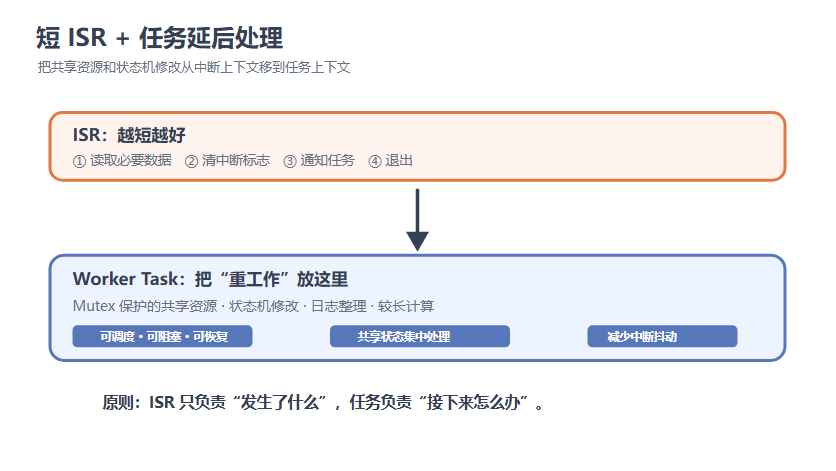
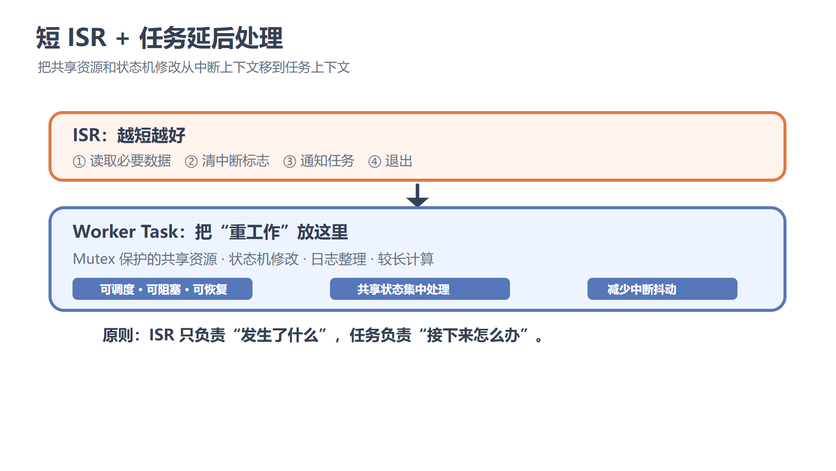
Clear FreeRTOS scene 4 and 5 subtitles in source diagrams

diff --git a/tests/video/test_freertos_scene45_subtitle_geometry.py b/tests/video/test_freertos_scene45_subtitle_geometry.py
@@ -1,0 +1,96 @@
+"""Keep complete FreeRTOS scene 4/5 diagrams above the real 16:9 subtitle band."""
+
+from __future__ import annotations
+
+import json
+import re
+import subprocess
+from pathlib import Path
+from urllib.parse import unquote
+from xml.etree import ElementTree
+
+from generate_video import _local_brief_subtitle_style
+from video_factory.pipeline.renderer import _subtitle_force_style
+
+from . import ROOT
+
+
+ASSETS = ROOT / "assets/freertos_mutex_plain_illustrations"
+CHROME = Path("C:/Program Files/Google/Chrome/Application/chrome.exe")
+WIDTH, HEIGHT = 1920, 1080
+SVG_WIDTH, SVG_HEIGHT = 1672, 941
+CLEARANCE_PX = 20
+
+
+def _subtitle_top() -> float:
+    style = _local_brief_subtitle_style(WIDTH, HEIGHT)
+    ass = _subtitle_force_style(style, canvas_width=WIDTH, canvas_height=HEIGHT)
+    values = dict(part.split("=", 1) for part in ass.split(","))
+    font_px = int(values["FontSize"]) * HEIGHT / 288
+    bottom_margin_px = int(values["MarginV"]) * HEIGHT / 288
+    return HEIGHT - bottom_margin_px - 1.5 * font_px
+
+
+def _chrome_boxes(svg_path: Path, ids: dict[str, str], tmp_path: Path) -> dict[str, dict[str, float]]:
+    assert CHROME.is_file(), "installed Chrome required for qualified SVG geometry"
+    source = svg_path.read_text(encoding="utf-8")
+    html = tmp_path / "bbox.html"
+    html.write_text(
+        "<!doctype html><meta charset='utf-8'><body style='margin:0'>" + source
+        + "<script>(async()=>{await document.fonts.ready;"
+        + "const ids=" + json.dumps(ids) + ";const out={};"
+        + "for(const [name,id] of Object.entries(ids)){"
+        + "const b=document.getElementById(id).getBBox();"
+        + "out[name]={x:b.x,y:b.y,width:b.width,height:b.height};}"
+        + "document.documentElement.setAttribute('data-bbox-json',encodeURIComponent(JSON.stringify(out)));"
+        + "})();</script></body>",
+        encoding="utf-8",
+    )
+    command = [
+        str(CHROME), "--headless=new", "--no-first-run", "--disable-background-networking",
+        "--disable-component-update", "--disable-sync", "--virtual-time-budget=3000",
+        f"--user-data-dir={tmp_path / 'chrome-profile'}", "--dump-dom", html.as_uri(),
+    ]
+    result = subprocess.run(
+        command, capture_output=True, text=True, encoding="utf-8", errors="replace",
+        check=False, timeout=20,
+    )
+    assert result.returncode == 0, result.stderr[-500:]
+    match = re.search(r'data-bbox-json="([^"]+)"', result.stdout)
+    assert match is not None, result.stdout[-500:]
+    return json.loads(unquote(match.group(1)))
+
+
+def _screen_bottom(box: dict[str, float]) -> float:
+    scale = min(WIDTH / SVG_WIDTH, HEIGHT / SVG_HEIGHT)
+    pad_y = (HEIGHT - SVG_HEIGHT * scale) / 2
+    return pad_y + (box["y"] + box["height"]) * scale
+
+
+def test_scene4_principle_clears_production_subtitle(tmp_path: Path) -> None:
+    svg_path = ASSETS / "04-short-isr-defer.svg"
+    svg = ElementTree.parse(svg_path).getroot()
+    principle = svg.find(".//*[@id='scene4-principle']")
+    assert principle is not None
+    assert "".join(principle.itertext()) == "原则：ISR 只负责“发生了什么”，任务负责“接下来怎么办”。"
+    assert principle.attrib["font-size"] == "31"
+    box = _chrome_boxes(svg_path, {"principle": "scene4-principle"}, tmp_path)["principle"]
+    bottom, top = _screen_bottom(box), _subtitle_top()
+    assert bottom + CLEARANCE_PX <= top, f"scene4_principle_bottom={bottom:.1f}, subtitle_top={top:.1f}, bbox={box}"
+
+
+def test_scene5_complete_checklist_clears_production_subtitle(tmp_path: Path) -> None:
+    svg_path = ASSETS / "05-checklist.svg"
+    svg = ElementTree.parse(svg_path).getroot()
+    content = svg.find(".//*[@id='scene5-checklist-content']")
+    assert content is not None
+    assert len([element for element in content if element.tag.endswith("circle")]) == 5
+    boxes = _chrome_boxes(
+        svg_path,
+        {"box": "scene5-checklist-box", "content": "scene5-checklist-content"},
+        tmp_path,
+    )
+    assert boxes["content"]["y"] >= boxes["box"]["y"] + 16, boxes
+    assert boxes["content"]["y"] + boxes["content"]["height"] <= boxes["box"]["y"] + boxes["box"]["height"] - 16, boxes
+    bottom, top = _screen_bottom(boxes["box"]), _subtitle_top()
+    assert bottom + CLEARANCE_PX <= top, f"scene5_box_bottom={bottom:.1f}, subtitle_top={top:.1f}, bboxes={boxes}"

diff --git a/reports/phase1/stage_20260927/scene45_still_probe.py b/reports/phase1/stage_20260927/scene45_still_probe.py
@@ -1,0 +1,65 @@
+"""Render two one-second production-profile still probes without a full candidate."""
+
+from __future__ import annotations
+
+import hashlib
+import json
+import subprocess
+from pathlib import Path
+
+import yaml
+
+from video_factory.pipeline.renderer import build_render_command
+
+
+ROOT = Path(__file__).resolve().parents[3]
+FROZEN = Path("E:/OpenClaw_VideoFactory_Runtime/phase1_freertos_candidate004_20260927/candidate004_single_render")
+OUTPUT = Path("E:/OpenClaw_VideoFactory_Runtime/phase1_freertos_scene45_20260927")
+
+
+def sha(path: Path) -> str:
+    return hashlib.sha256(path.read_bytes()).hexdigest()
+
+
+def run(command: list[str]) -> None:
+    result = subprocess.run(command, capture_output=True, text=True, timeout=90)
+    if result.returncode:
+        raise RuntimeError(result.stderr[-1200:])
+
+
+def main() -> None:
+    OUTPUT.mkdir(parents=True, exist_ok=True)
+    timeline = json.loads((FROZEN / "timeline.json").read_text(encoding="utf-8"))
+    job = yaml.safe_load((FROZEN / "render_job.yaml").read_text(encoding="utf-8"))
+    source_cues = [part.splitlines()[2] for part in (FROZEN / "subtitle.srt").read_text(encoding="utf-8").strip().split("\n\n")]
+    results = []
+    for scene_index in (4, 5):
+        label = f"scene{scene_index}"
+        cue = source_cues[scene_index - 1]
+        subtitle = OUTPUT / f"{label}_subtitle.srt"
+        subtitle.write_text(f"1\n00:00:00,000 --> 00:00:01,000\n{cue}\n", encoding="utf-8")
+        mp4 = OUTPUT / f"{label}_production_still_probe.mp4"
+        scene = {**timeline["scenes"][scene_index - 1], "duration": 1.0}
+        command, duration = build_render_command(
+            asset_dir=ROOT, timeline=[scene], subtitle_path=subtitle,
+            output_path=mp4, transition_seconds=0.4, transition_mode="technical_cut",
+            audio_path=None, repo_root=ROOT, subtitle_style=job["subtitle"]["style"],
+            encoder="cpu", canvas_width=1920, canvas_height=1080, fps=30,
+            pad_color=job["render"]["pad_color"],
+        )
+        run(command)
+        still = OUTPUT / f"{label}_production_still.png"
+        run(["ffmpeg", "-y", "-v", "error", "-i", str(mp4), "-vf", "select=eq(n\\,15)",
+             "-vsync", "0", "-frames:v", "1", str(still)])
+        results.append({"scene": scene_index, "subtitle_text": cue, "subtitle_sha256": sha(subtitle),
+                        "duration_seconds": duration, "probe_mp4_sha256": sha(mp4),
+                        "still_path": str(still), "still_sha256": sha(still)})
+        print(f"[{scene_index - 3}/2] {label} still={still}", flush=True)
+    (OUTPUT / "scene45_still_probe_report.json").write_text(
+        json.dumps({"source_candidate": "Candidate004", "source_mp4_sha256": sha(FROZEN / "final_master.mp4"),
+                    "profile": "1920x1080/30fps, same bottom-safe subtitle style and real cue text",
+                    "results": results}, ensure_ascii=False, indent=2) + "\n", encoding="utf-8")
+
+
+if __name__ == "__main__":
+    main()

diff --git a/reports/phase1/stage_20260927/scene45_red_replay.py b/reports/phase1/stage_20260927/scene45_red_replay.py
@@ -1,0 +1,67 @@
+"""Re-measure frozen pre-repair SVG geometry without changing the old Git blobs."""
+
+from __future__ import annotations
+
+import json
+import subprocess
+import tempfile
+from pathlib import Path
+
+from tests.video.test_freertos_scene45_subtitle_geometry import (
+    _chrome_boxes,
+    _screen_bottom,
+    _subtitle_top,
+)
+
+
+ROOT = Path(__file__).resolve().parents[3]
+REV = "7585840"
+OUTPUT = Path("E:/OpenClaw_VideoFactory_Runtime/phase1_freertos_scene45_20260927/scene45_red_replay.json")
+
+
+def old_svg(name: str) -> str:
+    result = subprocess.run(
+        ["git", "show", f"{REV}:assets/freertos_mutex_plain_illustrations/{name}.svg"],
+        cwd=ROOT, capture_output=True, text=True, encoding="utf-8", check=True,
+    )
+    return result.stdout
+
+
+def main() -> None:
+    with tempfile.TemporaryDirectory(prefix="scene45_red_") as directory:
+        temp = Path(directory)
+        scene4 = old_svg("04-short-isr-defer")
+        scene5 = old_svg("05-checklist")
+        # IDs are measurement selectors only; geometry, text, and styling remain
+        # byte-for-byte equal to the source commit apart from these attributes.
+        scene4 = scene4.replace('<text x="205" y="815"', '<text id="scene4-principle" x="205" y="815"', 1)
+        scene5 = scene5.replace('<rect x="110" y="215"', '<rect id="scene5-checklist-box" x="110" y="215"', 1)
+        a = temp / "scene4.svg"
+        b = temp / "scene5.svg"
+        a.write_text(scene4, encoding="utf-8")
+        b.write_text(scene5, encoding="utf-8")
+        a_work = temp / "a"
+        b_work = temp / "b"
+        a_work.mkdir()
+        b_work.mkdir()
+        old4 = _chrome_boxes(a, {"principle": "scene4-principle"}, a_work)["principle"]
+        old5 = _chrome_boxes(b, {"box": "scene5-checklist-box"}, b_work)["box"]
+        top = _subtitle_top()
+        value = {
+            "source_commit": REV,
+            "selector_change_only": True,
+            "subtitle_top_px": top,
+            "scene4_old_bbox": old4,
+            "scene4_old_bottom_px": _screen_bottom(old4),
+            "scene5_old_bbox": old5,
+            "scene5_old_bottom_px": _screen_bottom(old5),
+            "scene4_red": _screen_bottom(old4) + 20 > top,
+            "scene5_red": _screen_bottom(old5) + 20 > top,
+        }
+        assert value["scene4_red"] and value["scene5_red"]
+        OUTPUT.write_text(json.dumps(value, indent=2) + "\n", encoding="utf-8")
+        print(json.dumps(value, indent=2))
+
+
+if __name__ == "__main__":
+    main()

diff --git a/tasks/todo.md b/tasks/todo.md
@@ -2828,6 +2828,16 @@ Change Request: `reports/change_requests/PHASE1-STAGE-PLAN-20260927.json`; detai
 - [x] Candidate003 job `job-0a58d7692fb3dd4008d3a6ed` from `d5c13a7` passed media decode/SQLite/package checks and fixed scene-2/3 midpoints, but the 0.4-second xfade overlays adjacent technical diagrams at transitions. Semantic visual status is `CHANGES_REQUIRED`; preserve `reports/phase1/stage_20260927/candidate003_review.json`. No Jovi approval, prereview, or Candidate004.
 - [ ] WP3: qualify one distinct live topic and obtain SHA-bound Jovi review.
 
+### PHASE1-FREERTOS-SCENE45-GEOMETRY-20260927
+
+- [x] Reproduce Candidate004 scene 4/5 subtitle collisions as Chrome bbox RED tests using the production subtitle profile and replay old Git blobs with selector-only temporary IDs.
+- [x] Move/reflow only scene 4/5 SVG geometry; preserve wording, typography and other assets.
+- [x] Rasterize only scene 4/5 PNGs; verify decode, dimensions and registry SHA.
+- [x] Check production-style stills with real scene subtitles, affected suites, diff check and independent review.
+- [x] Stop before any Candidate005 full render.
+
+Review: `PASS_BOUNDED_STILL_ONLY`. Candidate004 remains frozen `CHANGES_REQUIRED`. Chrome RED replay measured scene 4/5 bottoms at 944.57/900.96 px against subtitle top 815.63 px. GREEN bottoms are 789.63/786.18 px, with >20 px clearance. Scene 4/5 production-style stills, decode/hash checks, 450 affected tests and independent read-only review pass. See `reports/phase1/stage_20260927/scene45_geometry_evidence.json`. No full Candidate005 render or human review.
+
 ### PHASE1-FREERTOS-CANDIDATE004-20260927
 
 - [x] Bind commit, brief, asset hashes, technical_cut, 40s/1200-frame expectation and prior SRT/audio probes.
